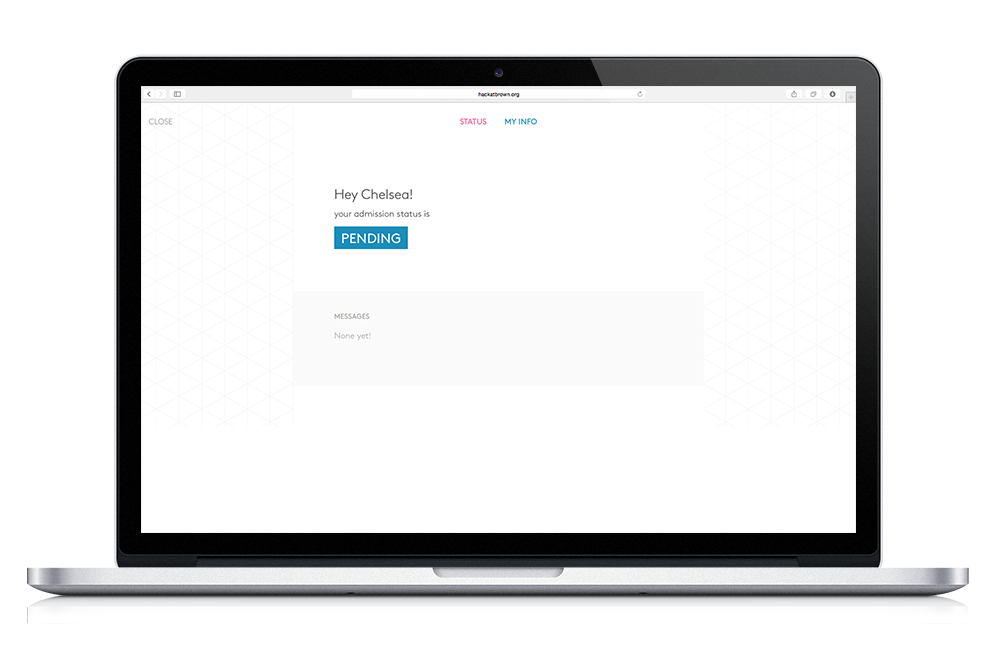
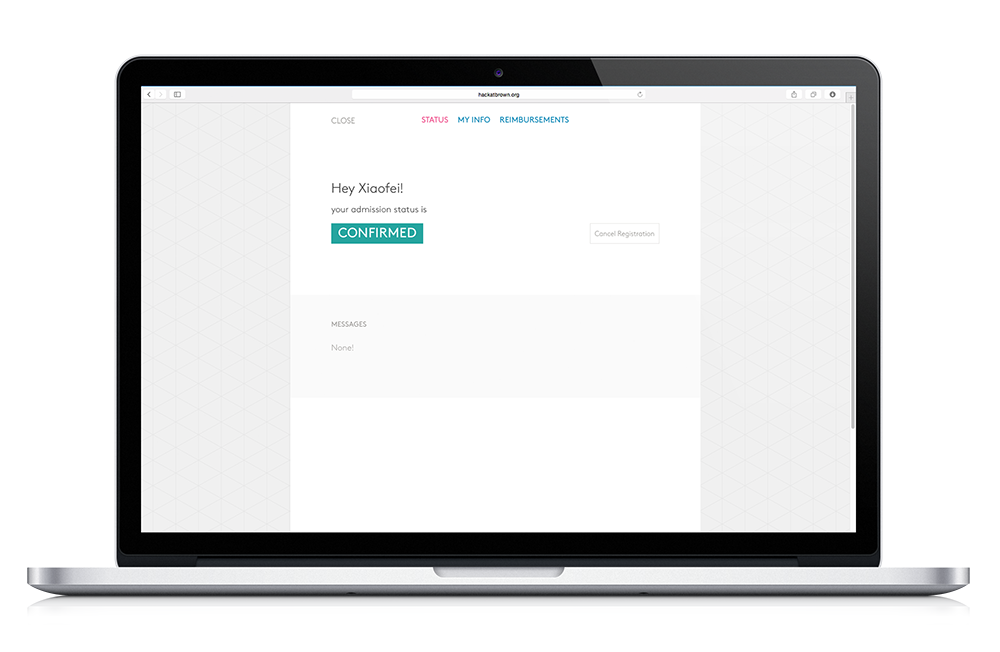
edits

diff --git a/projects/proj8/index.html b/projects/proj8/index.html
@@ -58,9 +58,11 @@
                     <img src="online4.png">
                     <img src="online5.png">  
                    <strong>Status & Applicant Page</strong>
-                    <br/><br/>After registration is confirmed, the applicant has access to a page that will notify them of their admission status. They also have an option to edit their form.
+                    <br/><br/>After registration is confirmed, applicants have access to a page that will notify them of their admission status. They also have an option to edit their form and access a travel reimbursement page. 
                     <img src="online6.png">
-                    <img src="online7.png"><strong>Reflection</strong>
+                    <img src="online7.png">
+                    <img src="online8.png">
+                <strong>Reflection</strong>
                 <br/><br/>Hack@Brown has easily been my most work intensive extracurricular commitment. Each team meeting is characteristic of a mini hackathon. My experiences pushed me to think fast and prioritize shipping over perfection. I learned a lot in terms of collaborating and consolidating a design system, and I'm excited to see where the future designs are headed.
                <br/><br/>Hack@Brown's design was acclaimed as a success among the CS and hackathon student community around the country. Within the first hour of release, our website crashed because of the incredible influx of applicants. All of the hard work definitely paid off. I couldn't be happier with the Hack@Brown 2015 team, and a special thanks for co-directors Sharon Lo and Athyuttam Reddy for being so supportive!
                 

diff --git a/main.js b/main.js
@@ -45,6 +45,7 @@ $("#work .project").each(function(){
         $(this).find(".project_thumb").css("background-image","url('projects/"+proj_id+"/thumb.png')");
     }
 });
+
 //
 //var proj_width = $(".project").first().width();
 //$(document).resize(function() {

diff --git a/README.md b/README.md
@@ -1,4 +1,4 @@
 yiejunwang.github.io
 ====================
 
-My RISD Graphic Design Portfolio. All designs by Chelsea Wang. Interactivity with the assistance of William Wu. 
+My RISD Graphic Design Portfolio. All designs by Chelsea Wang. Interactivity assisted by William Wu. 
